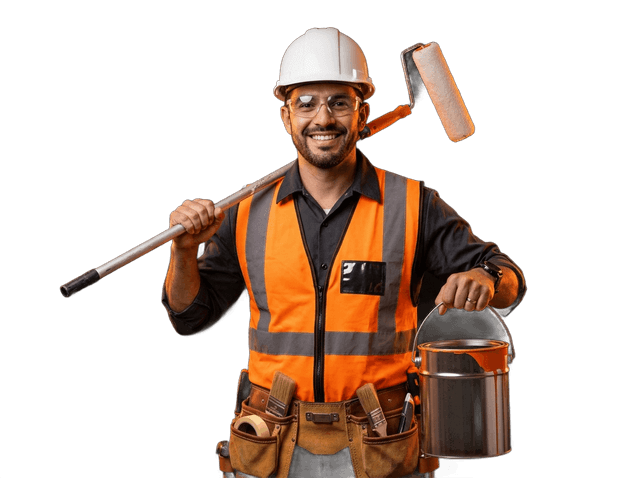
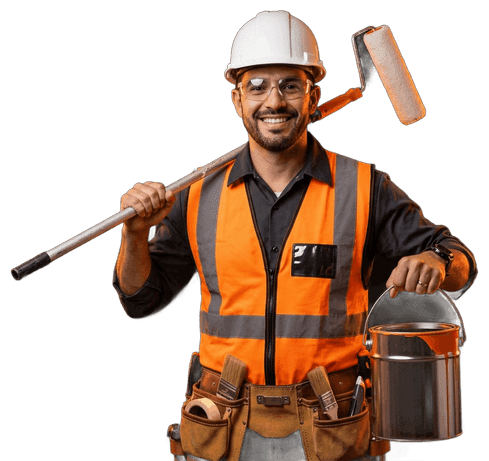
style(hero): enlarge specialist PNG cutouts and trim transparent margins

diff --git a/src/components/HeroSection.vue b/src/components/HeroSection.vue
@@ -162,9 +162,9 @@ onUnmounted(() => {
 
         <!-- Right Column: Proportioned Orbital Arc + Specialist Portrait Showcase -->
         <div class="relative lg:col-span-7 lg:pl-6">
-          <div class="relative ml-auto flex min-h-[320px] w-full max-w-xl items-center justify-end sm:min-h-[370px] lg:min-h-[390px]">
+          <div class="relative ml-auto flex min-h-[350px] w-full max-w-xl items-center justify-end sm:min-h-[400px] lg:min-h-[430px]">
             <!-- Desktop Curved Orbital Arc Positioned Closely Along the Specialist Image -->
-            <div class="pointer-events-none absolute inset-y-0 right-[45%] z-20 hidden w-52 sm:block md:right-[44%] lg:right-[43%] lg:w-56">
+            <div class="pointer-events-none absolute inset-y-0 right-[48%] z-20 hidden w-52 sm:block md:right-[47%] lg:right-[46%] lg:w-56">
               <svg
                 viewBox="0 0 195 340"
                 class="h-full w-full overflow-visible"
@@ -242,19 +242,19 @@ onUnmounted(() => {
             </div>
 
             <!-- Specialist With Product Cutout PNG (Transparent Background) -->
-            <div class="relative z-10 flex w-full items-center justify-center sm:w-[66%] lg:w-[64%]">
+            <div class="relative z-10 flex w-full items-center justify-center sm:w-[72%] lg:w-[70%]">
               <!-- Subtle Warm Ambient Glow -->
-              <div class="pointer-events-none absolute inset-10 rounded-full bg-[#f6892c]/12 blur-3xl"></div>
+              <div class="pointer-events-none absolute inset-8 rounded-full bg-[#f6892c]/14 blur-3xl"></div>
 
               <img
                 :key="currentSlide.image"
                 :src="currentSlide.image"
                 :alt="currentSlide.headlineTop"
-                width="760"
-                height="540"
+                width="490"
+                height="470"
                 fetchpriority="high"
                 decoding="async"
-                class="h-72 w-full object-contain drop-shadow-[0_14px_28px_rgba(0,0,0,0.75)] transition-all duration-500 sm:h-84 lg:h-[360px]"
+                class="h-84 w-full object-contain drop-shadow-[0_16px_32px_rgba(0,0,0,0.8)] transition-all duration-500 sm:h-96 lg:h-[425px] xl:h-[445px]"
                 style="
                   -webkit-mask-image: linear-gradient(to bottom, #000 88%, transparent 100%);
                   mask-image: linear-gradient(to bottom, #000 88%, transparent 100%);
